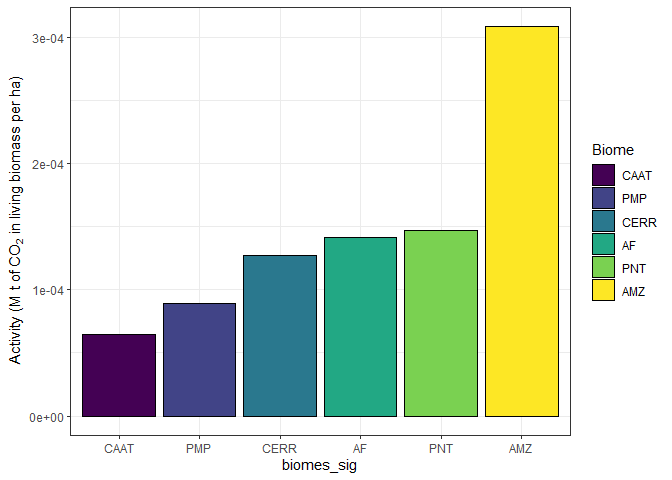
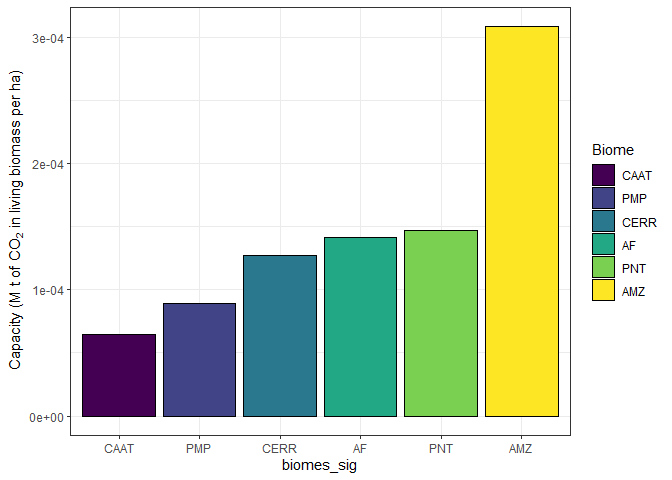
novas

Changed region(s): [[0.0, 0.1562, 0.0312, 0.7812]]

diff --git a/README.md b/README.md
@@ -173,7 +173,7 @@ tab_stat |>
   ) |> 
   ggplot(aes(x=biomes_sig, y=Mean/1e6,fill=biomes_sig)) +
   geom_col(color="black",position = "dodge") +
-  labs(y = expression(paste("Activity (M t of  ", CO[2]," in living biomass per ha)")),
+  labs(y = expression(paste("Capacity (M t of  ", CO[2]," in living biomass per ha)")),
                             fill = "Biome") +
   scale_fill_viridis_d() +
   theme_bw()
